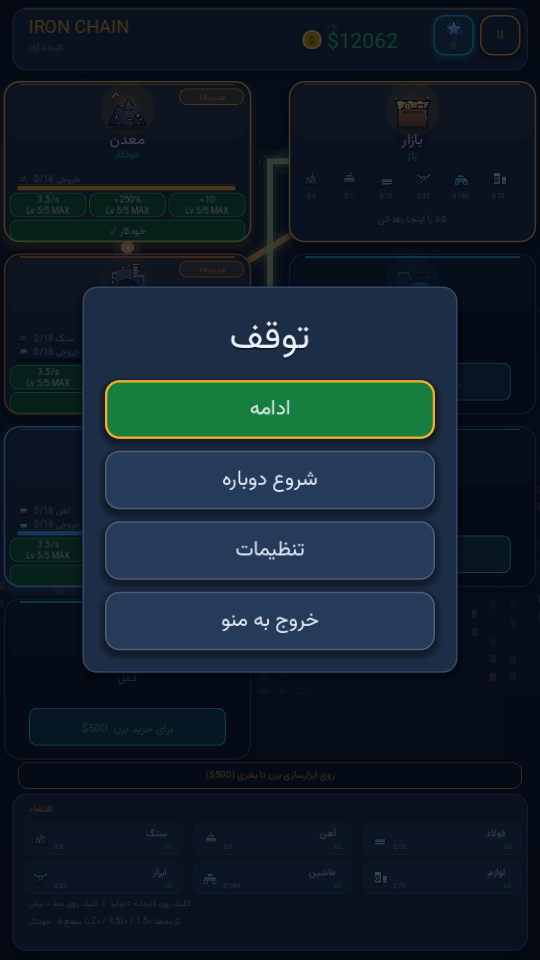
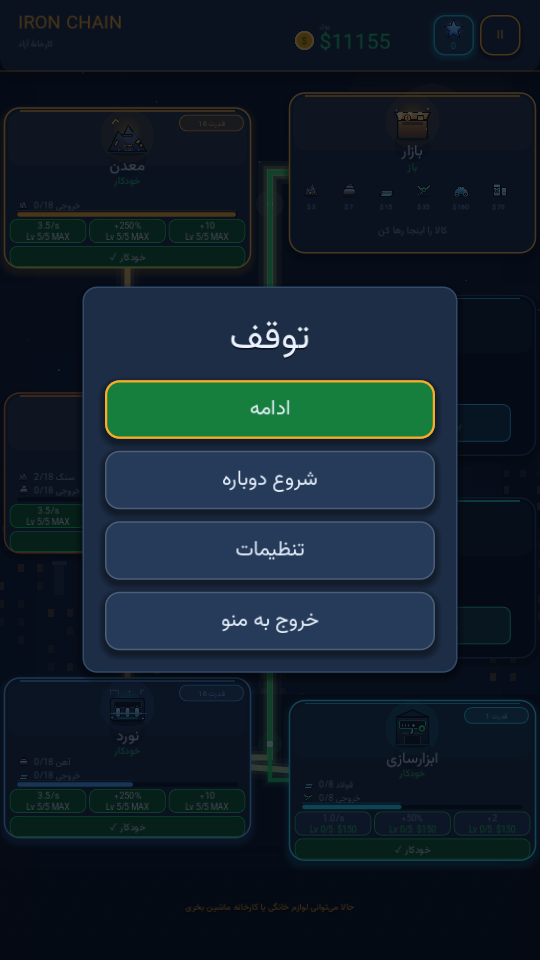
UI: full-width top bar, remove dashboard, staggered board layout (0.8.1)

diff --git a/docs/GDD.md b/docs/GDD.md
@@ -1,6 +1,6 @@
 # Iron Chain: Factory Sandbox (Game Design Document)
 
-**Engine:** Godot 4.7.2, GDScript only · **Targets:** Windows + Android (portrait, 720x1280 design size) · **Players:** single, 100% offline · **Languages:** فارسی / English · **Version:** 0.8.0
+**Engine:** Godot 4.7.2, GDScript only · **Targets:** Windows + Android (portrait, 720x1280 design size) · **Players:** single, 100% offline · **Languages:** فارسی / English · **Version:** 0.8.1
 
 ## Pitch
 Build a steel factory chain by hand. The mine makes ore; sell it, buy the next factory, then drag lines to move goods from one building to another. Each line starts at 1 item/s and speeds up with the source factory's speed option. Each factory has four options: speed ×1.5, price +50%, space +2 and AUTO. The first three can be leveled up to **5**; AUTO is a one-time switch to automatic production. Build 100 cars to unlock the **Global Lab**, then ascend for permanent blue-star upgrades.
@@ -106,18 +106,20 @@ Prices are fixed base prices; the source factory's price levels and the Global L
 - The car counter counts **produced cars** (not sales) and is saved with the run.
 
 ## Layout
-- Two columns of wide cards (330x215 design pixels): production on the left, Market and final factories on the right.
-- More spacing between rows and a larger desktop test window (540x960) so the option buttons, level text and artwork are comfortable.
-- The Market sits opposite the Mine, so the first drag is a short horizontal line.
+- **Top command bar:** full-width, flush to the top edge (0-96 design px), with the chain name/cash on the left, blue-star balance and pause on the right. No floating margin.
+- **No bottom economy dashboard.** The market card shows product prices; each factory card shows its own input/output counts; the economy hint line sits at the very bottom without a panel.
+- **Raw production column (left):** Mine → Smelter → Mill, spaced like a vertical pipeline with long link runs.
+- **Output/market column (right):** Market at the top, then Car Plant, Appliance Plant and Tool Shop, tightly stacked and staggered against the left column.
+- Cards are 330x215; the left column is deliberately airier and the right column denser so the finished-goods side reads as a compact hub. The Market stays opposite the Mine for the short first drag.
 
 ## Visual design
 - **Background:** procedural night-time industrial city with layered skyline, factory windows, chimneys, animated smoke and a warm moon glow.
-- **Top command bar:** chain name, Persian/English subtitle, gold coin + CASH balance, a blue-star balance button that opens the Global Lab, and a dedicated pause button.
+- **Top command bar:** full-width and flush to the top edge; chain name, Persian/English subtitle, gold coin + CASH balance, a blue-star balance button that opens the Global Lab, and a pause button.
 - **Factory cards:** 330x215, category accent (mine orange, processing orange, steel mill steel-blue, production cyan), custom art, soft inner light, shadow, PWR badge, resource icons for input/output, progress bar and the option controls.
+- **Board flow:** raw production (Mine/Smelter/Mill) on an airy left pipeline; Market, Car Plant, Appliance Plant and Tool Shop on a dense right output hub. The bottom economy dashboard has been removed; a single shadowed hint line sits at the bottom edge.
 - **Global Lab:** full-screen deep-blue panel with a starfield glow, blue-star balance and ascension count, a gold Ascension card with a car progress bar, three accent-coded upgrade cards (gold sale price, cyan speed, green storage) with five level pips and buy buttons, and a help panel. The top-bar star button glows when ascension is available.
 - **Art:** one unique SVG illustration per building in `assets/sprites/factories/` and one icon per resource in `assets/sprites/resources/`; transparent, drawn with gradients and industrial detail.
 - **Market:** warm orange glowing frame, its own art, OPEN status, six sellable product icons with base prices and a drop hint.
-- **Economy dashboard:** panel at the bottom with a chip per product (icon, name, base price, current stock), plus control hints.
 - **Lines:** product-coloured glow, animated flow pulse, moving item dots, endpoint markers and arrows; routed in lanes behind the cards. Base 1 item/s, upgraded by the source speed option and the Global Lab speed multiplier; colour moves toward gold and the line widens as the rate grows.
 - **Motion:** card hover lift + border glow, working-card pulse, progress glow, cash pop, button feedback, background smoke and window flicker.
 - All displayed numbers are read from the real station buffers, links and Economy data; UI-only additions (PWR badge) never change gameplay.
@@ -174,22 +176,23 @@ No per-item nodes in the simulation: buffers are integer counters, items in tran
 - 0.6.0: full industrial UI redesign (background, cards/art, lines, market, dashboard, animations). **Done**
 - 0.7.0: factory buy prices ×5, option costs ×3, line throughput limited to 1 item/s and upgraded by the source speed option with gold-shifting colours. **Done**
 - 0.8.0: blue-star Global Lab, 100-car ascension, permanent sale/speed/storage upgrades, top-bar star balance. **Done**
+- 0.8.1: full-width top command bar, bottom economy dashboard removed, staggered raw/output card layout and slim bottom hint. **Done**
 
 ## Implementation notes
 - `resources/theme/main_theme.tres` sets Vazirmatn as the default theme font; the font is `assets/fonts/Vazirmatn.ttf` (OFL).
 - Save data: `user://save.json`, format version 5 (option levels stored as ints; old boolean values load as level 1; old v4 saves are reset).
 - Windows release build: `build/windows/IronChain.exe`.
-- Android debug build: `build/android/IronChain-0.8.0-debug.apk` (arm64-v8a, package `com.jasb.ironchain`, target SDK 36, min SDK 24), signed with the local debug keystore.
+- Android debug build: `build/android/IronChain-0.8.1-debug.apk` (arm64-v8a, package `com.jasb.ironchain`, target SDK 36, min SDK 24), signed with the local debug keystore.
 - Android toolchain is local: JDK 17 in `D:\ghaffari\Android\jdk17`, SDK in `D:\ghaffari\Android\Sdk` (build-tools 36.0.0, platform android-36, platform-tools 37.0.1), debug keystore in `D:\ghaffari\Android\keystore\debug.keystore`.
 - Android export preset is ready in `export_presets.cfg`; the package name `com.jasb.ironchain` is a placeholder and must be changed before publishing. Release builds must be signed with your own release keystore.
 - Links are routed with orthogonal side lanes chosen to avoid building cards; the lane rotates per link so parallel lines stay visible.
 - `Link.throughput()` returns `(1.0 + 0.5 × from.speed_level) × SaveManager.global_speed()` and is enforced by a per-link pull accumulator; `Link._refresh_strength()` updates width and the product-to-gold colour blend.
 - `scripts/game/boot.gd` fits the desktop window to the monitor's usable area at startup (preserving 9:16) so the title bar cannot open above the screen; Android is untouched.
-- `scripts/ui/industrial_background.gd` draws the animated city; `scripts/common/art.gd` maps SVG art; `Hud` draws the command bar, star button and economy dashboard.
+- `scripts/ui/industrial_background.gd` draws the animated city; `scripts/common/art.gd` maps SVG art; `Hud` draws the full-width command bar and star button.
 - Global meta data and purchase rules live in `scripts/economy/global_upgrades.gd` and `autoload/save_manager.gd`; the page is `scripts/ui/global_lab.gd` with `LevelPips` and `LabBackdrop` helpers.
-- Version: 0.8.0 (`project.godot`, menu footer, CHANGELOG).
+- Version: 0.8.1 (`project.godot`, menu footer, CHANGELOG).
 
-## Screenshots (0.8.0)
+## Screenshots (0.8.1)
 - `docs/screenshots/menu.png`
 - `docs/screenshots/settings.png`
 - `docs/screenshots/start.png`

diff --git a/docs/RELEASE_CHECKLIST.md b/docs/RELEASE_CHECKLIST.md
@@ -5,14 +5,15 @@
 - [ ] Update docs/CHANGELOG.md
 - [ ] Output panel clean on F5 (no errors/warnings), all scenes run with F6
 - [ ] Reset progress in Settings, start a fresh sandbox
-- [ ] Confirm the night city background, top command bar and economy dashboard render on Windows and Android
+- [ ] Confirm the night city background, full-width top command bar and staggered card layout render on Windows and Android
+- [ ] Confirm the top command bar is flush to the top edge and the bottom economy dashboard is gone
 - [ ] Confirm the desktop game window fits the monitor with a visible title bar (test 1080p and a 768p/scaled display)
 - [ ] Confirm every factory has its own art and that locked cards are visually dimmed
 - [ ] Confirm Persian is the default language; switch to English and back from Settings
 - [ ] Confirm Persian text is shaped correctly and the Vazirmatn font renders every label
 - [ ] Confirm the new slider fills, language selector, pause panel and menu panel look correct
 - [ ] Confirm card hover glow, working pulse, cash pop, line flow and background smoke animate
-- [ ] Confirm the dashboard stock/price values change from real production
+- [ ] Confirm the market card prices and each factory card's input/output counts are correct
 - [ ] Confirm locked prices are $150 / $300 / $500 / $1250 / $900 on the cards
 - [ ] Confirm option base costs are $60 / $45 / $90 / $150 / $375 / $270 and AUTO is 2× the base
 - [ ] Confirm a new Mine -> Market line moves exactly 1 item/s (with no global speed)
@@ -47,7 +48,7 @@
 - [ ] Phone stays cool after 10 minutes
 
 ## Android
-- [ ] Debug build installs and runs (`adb install -r build/android/IronChain-0.8.0-debug.apk`)
+- [ ] Debug build installs and runs (`adb install -r build/android/IronChain-0.8.1-debug.apk`)
 - [ ] Portrait only, no rotation
 - [ ] Tall (20:9) and short (16:9) screens both show all cards and option levels
 - [ ] Release build signed with your own keystore (never commit it)
@@ -58,5 +59,5 @@
 - [ ] Window is portrait-sized and resizable without UI breaking
 
 ## Final
-- [ ] Tag the commit `v0.8.0`
+- [ ] Tag the commit `v0.8.1`
 - [ ] Archive the keystore and passwords somewhere safe

diff --git a/README.md b/README.md
@@ -25,7 +25,8 @@ Build a steel production chain, connect factories with glowing lines, sell produ
 - **Global Lab** with three permanent tracks bought with **blue stars**: sale price, speed and storage
 - **Ascension** at 100 built cars: reset the run, keep blue stars and global upgrades, earn 50 stars
 - Persian (default) and English UI with Vazirmatn and RTL support
-- Industrial night-city background, custom SVG art, animated cards, links, market and economy dashboard
+- Industrial night-city background, custom SVG art, animated cards and links
+- Full-width top command bar (cash, blue stars, pause) and a compact staggered production layout
 - Offline JSON save (format v5)
 
 ## Controls
@@ -64,7 +65,7 @@ The exported executable is written to `build/windows/IronChain.exe`.
 The Android preset is configured for an **arm64-v8a debug APK**, target SDK 36, min SDK 24:
 
 ```text
-Godot --headless --export-debug "Android APK" "build/android/IronChain-0.8.0-debug.apk"
+Godot --headless --export-debug "Android APK" "build/android/IronChain-0.8.1-debug.apk"
 ```
 
 Requirements:
@@ -84,7 +85,7 @@ To install on a USB-connected phone:
 
 ```bat
 D:\ghaffari\Android\android-env.bat
-adb install -r D:\ghaffari\jasb\build\android\IronChain-0.8.0-debug.apk
+adb install -r D:\ghaffari\jasb\build\android\IronChain-0.8.1-debug.apk
 ```
 
 Build outputs are intentionally ignored by Git (`build/`). The source is the project.
@@ -112,6 +113,6 @@ docs/               GDD, changelog, release checklist, screenshots
 
 ## Version
 
-**0.8.0** — Global Lab, blue stars and Ascension.
+**0.8.1** — full-width top bar, bottom dashboard removed, staggered raw-output board layout.
 
 See `docs/GDD.md` and `docs/CHANGELOG.md` for details.

diff --git a/docs/CHANGELOG.md b/docs/CHANGELOG.md
@@ -1,5 +1,15 @@
 # Changelog
 
+## 0.8.1
+- Full-width **top command bar**, flush to the top edge (no floating margin); cash, blue-star balance and pause stay in the header.
+- Removed the bottom **economy dashboard** entirely. Product prices remain on the Market card and each factory card still shows its own input/output counts.
+- New staggered board layout:
+  - Left: raw production pipeline (Mine → Smelter → Mill) with airy spacing and long link runs.
+  - Right: output/market hub (Market, Car Plant, Appliance Plant, Tool Shop) tightly stacked.
+  - The bottom hint is now a single shadowed text line without a panel.
+- Line routing bounds and top/bottom lanes updated for the taller card area.
+- Android debug APK rebuilt as `build/android/IronChain-0.8.1-debug.apk`.
+
 ## 0.8.0
 - New **Global Lab** opened from the blue-star button in the top command bar.
   - Build **100 cars** in a run to unlock **Ascension**.
